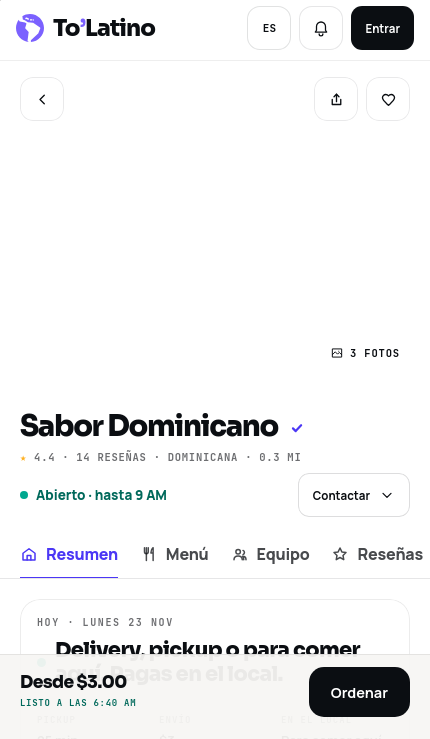
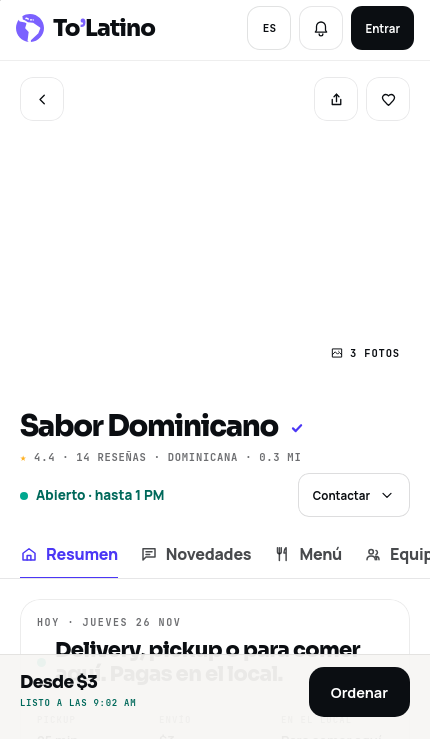
Visual: la captura de la ficha ya no depende de la hora real (CI 45825579131)
El texto de la hora dentro de un elemento con hijos («Abierto · hasta 9 PM» con su punto) no se tapaba: la aprobada decia 9 AM y entre las 8 y las 11 de Hazleton la captura decia 1 PM. Sumado a la tira de pestañas vieja (Novedades tras Resumen desde el 24 nov), el CI llego a 0,50 % justo. correr.mjs tapa tambien el texto propio; ficha re-aprobada en iphone-se, iphone-15 e iphone-15-pro-max; guardian capturaSinHora ampliado con su caso al reves.

Claude-Session: https://claude.ai/code/session_01CAVQod1VDR7sfuuZvknrwy

diff --git a/docs/REVISION.md b/docs/REVISION.md
@@ -6685,3 +6685,4 @@ Lo escribió Opus; la migración la revisó Fable (pidió un candado y una regla
 - **Las tablas del Super Admin que faltaban pasan por E2 (26 nov, hecho por Sonnet):** unas 65 tablas de rótulos del Super Admin (estados, tipos, motivos, verbos del historial, secciones de Configuración) y las del panel de Autos, Inmuebles y «Lo que no haces» pasan al catálogo del CMS (535 cadenas nuevas, ninguna perdida): se editan en Super Admin › Textos y páginas › Cadenas. Mismos textos ES/EN. Qué mirar: Transacciones, Repartidores y el 360° de un negocio de Autos en ES y EN, y en el panel de un abogado «Tus licencias › Lo que no haces»; todo igual que antes. Restos en LAUNCH.
 - **El sandbox se destraba solo (26 nov, incidente; hecho por Opus):** el reinicio automático de las 04:30 dejó un candado de git y el sandbox dejó de bajar `pruebas` sin decirlo. Ahora `tolatino-sync` borra los candados que quedan, pone tope al fetch y a `deploy.sh`, dice en `/estado/` desde cuándo y por qué no puede bajar la rama y a las 15 vueltas fallidas vuelve a clonar. Para destrabarlo hoy, el flujo nuevo **Rescate del sandbox** (escribir `RESCATAR`; no pierde la base). Qué mirar: tras el rescate, Estado del sandbox muestra en Salud el commit de `pruebas` y la página de estado sin el recuadro rojo. Manual: `docs/incidentes/sandbox-no-se-actualiza.md`.
 - **Rescate del sandbox sin el token en GitHub (26 nov, incidente; hecho por Opus):** el rescate se paró en «Confirmación» porque el entorno «ensayo» de GitHub no tiene el token de Hetzner (no se tocó nada), y el reinicio por la API no destrabó el sandbox. Ahora el rescate tiene un modo «llave» (el de por defecto): GitHub entra por SSH con una llave de un solo uso que nunca sale de su máquina y Claude maneja el proveedor desde su sesión (activa el rescate, lo quita y borra la llave; el servidor nunca se queda en rescate). Además de borrar los candados, cambia el `tolatino-sync` viejo por el que se arregla solo e imprime el diagnóstico completo (temporizador, registro, estado de git). Qué mirar: tras correrlo, Estado del sandbox muestra en Salud el commit de `pruebas`. Manual: `docs/incidentes/sandbox-no-se-actualiza.md`.
+- **Ficha: la captura ya no cambia con la hora (26 nov, hecho por Sonnet):** el CI 45825579131 cayó en iphone-15 (0,50 %) porque «Abierto · hasta 9 PM» no se tapaba y la aprobada era de otra hora; ahora se tapa. Capturas de la ficha aprobadas de nuevo: iphone-se, iphone-15 e iphone-15-pro-max (`pruebas/visual/ficha/`); miren que la tira de pestañas diga Resumen · Novedades · Menú · Equipo · Reseñas (Novedades tras Resumen, como se decidió el 24 nov) y que la barra de abajo diga «Desde $3».

diff --git a/docs/LAUNCH-CHECKLIST.md b/docs/LAUNCH-CHECKLIST.md
@@ -3386,3 +3386,4 @@ arriba NO entraron en esta pasada (era el bloque más grande de la fase): siguen
       (175/175). (3) Se probó quitar la marca de acciones-colas (3) y acciones-negocios (1): el guardián las sigue pidiendo (el SQL da el respaldo y el archivo avisa), así que se quedan. (4) El respaldo
       de El Compa («Un cliente») va en minúscula, como en la línea del canal: «un cliente» / «a customer». _Sigue sin verse:_ un lector que entrega la fila por otra función (sin `const x = … lector`)
       o un alias renombrado en la consulta de pantalla. Sin migración.
+- [x] **→ 9b** · **La captura de la ficha dependía de la hora real (26 nov, CI 45825579131, hecho por Sonnet):** _causa:_ «Abierto · hasta 9 PM» de la ficha lleva dentro el punto verde, y la lista de zonas tapadas de `correr.mjs` solo miraba hojas del DOM: esa línea nunca se tapaba. La aprobada decía «hasta 9 AM» (tomada antes de las 8 de Hazleton); entre las 8 y las 11 el corredor deja el negocio «hasta 1 PM» y desde las 11 «hasta 2 AM». Además la aprobada llevaba Novedades después de Reseñas y desde el 24 nov (0c23669) va tras Resumen: ~0,43 % fijo de diferencia que nunca se re-aprobó; con el ~0,07 % de la hora el CI llegó a 0,50 % justo (1296 px, reproducido aquí en WebKit: 1018/141/77/60 contra 1018/140/77/60 del CI). _Arreglo:_ `correr.mjs` tapa también el elemento con hijos cuyo propio texto es de hora (`propio`); capturas de ficha de iphone-se, iphone-15 e iphone-15-pro-max aprobadas de nuevo; guardián `capturaSinHora` ampliado + caso al revés en `alreves9b3`. No se subió MAXIMO ni UMBRAL ni se tapó la tira de pestañas. _Pendiente:_ la ficha de pixel, galaxy y los tres escritorios tiene la misma tira vieja (en el CI pasan; aquí Chromium renderiza otras fuentes y no se pudo re-aprobar con fiabilidad): re-aprobar con `aprobar=si` en el CI la próxima vez que una caiga.
